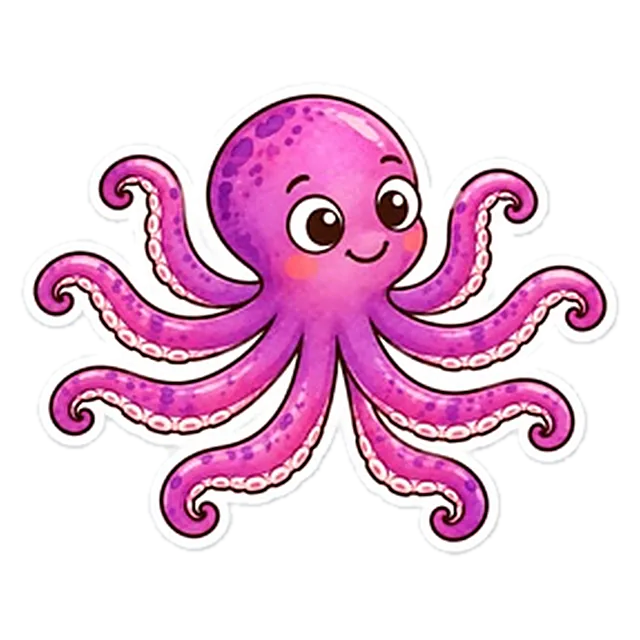
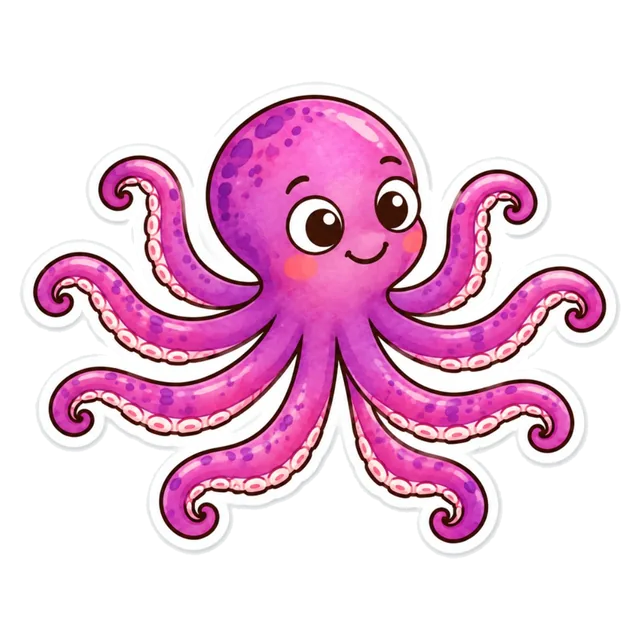
v0.25: Tier-Sticker in voller Auflösung
Je Tier eine eigene Vorlage (tiere/quelle/N.jpg, ~800–1000 px statt ~230 px aus dem verkleinerten
Streifen). Die Sticker werden jetzt nur noch verkleinert (×0,56–0,74) statt ~2,5× hochgerechnet –
scharfe Konturen, sichtbare Aquarellstruktur.

Claude-Session: https://claude.ai/code/session_01HZNDqFfj1AaNFCT1pCLNkA

Changed region(s): [[0.0312, 0.125, 0.9688, 0.875]]

diff --git a/index.html b/index.html
@@ -270,7 +270,7 @@ button { font: inherit; color: inherit; border: 0; background: none; cursor: poi
 </main>
 
 <script>
-const APP_VERSION = '0.24';          // bei JEDER Änderung hochzählen
+const APP_VERSION = '0.25';          // bei JEDER Änderung hochzählen
 
 const $ = s => document.querySelector(s);
 const $$ = s => document.querySelectorAll(s);

diff --git a/README.md b/README.md
@@ -40,13 +40,13 @@ nach oben: 3 + 1 + 3), 8 Oktopus (Ausnahme: *okto* = acht, 8 Arme als 4 + 4), 9 
 Breite bzw. 210 px), die Zahl als Plakette rechts unten daneben („wir sind beim Oktopus, bei der 8“).
 Es hüpft bei jeder richtigen Antwort, nach einer ganzen Runde zweimal. Schalter aus = ohne Tiere.
 
-Die Bilder sind Sticker aus einem Bildgenerator (`tiere/quelle/sticker.jpg`, ein Streifen mit allen
-sieben). `python3 tools/sticker.py` findet die Sticker im Streifen (in jeder Auflösung), schneidet sie
-aus, macht den Grund durchsichtig und schreibt `tiere/*.webp` (640 px). Einzelbilder `tiere/quelle/5.png`
-usw. gehen vor – so lässt sich ein einzelnes Tier austauschen. Der Streifen ist nur 245 px hoch – die Sticker werden ~2,5× hochgerechnet;
-eine größere Vorlage macht sie schärfer. Offene Punkte: Der Frosch zeigt 4 Beine (bei der 5 lädt das
-zum falschen Zählen ein), das Seepferdchen liegt waagerecht statt als 6. Die frühere gezeichnete
-Fassung (SVG mit Papierstruktur, `tools/tiere.mjs`) liegt in der Git-Historie (bis v0.23).
+Die Bilder sind Sticker aus einem Bildgenerator, je Tier eine Vorlage (`tiere/quelle/4.jpg` …
+`10.jpg`, ~800–1000 px, aus Bildschirmfotos ausgeschnitten – der Chat-Upload verkleinert breite Bilder,
+Einzelbilder kommen in voller Größe an). `python3 tools/sticker.py` macht den Grund durchsichtig und
+schreibt `tiere/*.webp` (640 px, nur verkleinert, also scharf). Es nimmt auch einen Streifen
+`sticker.jpg` mit allen sieben; Einzelbilder gehen vor. Offene Punkte: Der Frosch zeigt 4 Beine (bei
+der 5 lädt das zum falschen Zählen ein), das Seepferdchen liegt waagerecht statt als 6. Die frühere
+gezeichnete Fassung (SVG mit Papierstruktur, `tools/tiere.mjs`) liegt in der Git-Historie (bis v0.23).
 
 **Effekte** (am Gerät mit Reglern ausprobiert, dann fest eingestellt): Staub 4× (`STAUB`), 60 Sterne
 bei jeder richtigen Antwort, 132 nach einer ganzen Runde (`STERNE`).
@@ -64,6 +64,6 @@ der vorigen.
 | `sw.js` | Service Worker, Netz zuerst (Updates kommen an, offline läuft es weiter) |
 | `manifest.webmanifest`, `*.png` | Home-Bildschirm-Symbol |
 | `tiere/4.webp` … `tiere/10.webp` | Tier-Sticker je Zahl (ausgeschnitten von `tools/sticker.py`) |
-| `tiere/quelle/sticker.jpg` | Vorlage: alle sieben Sticker in einem Streifen |
+| `tiere/quelle/4.jpg` … `10.jpg` | Vorlagen der Sticker, je Tier ein Bild |
 | `tests/spiel.mjs` | Browser-Test: `node tests/spiel.mjs [bildordner]` |
 | `tools/kosten.py` | Kostenzeile für Claude-Sitzungen |
